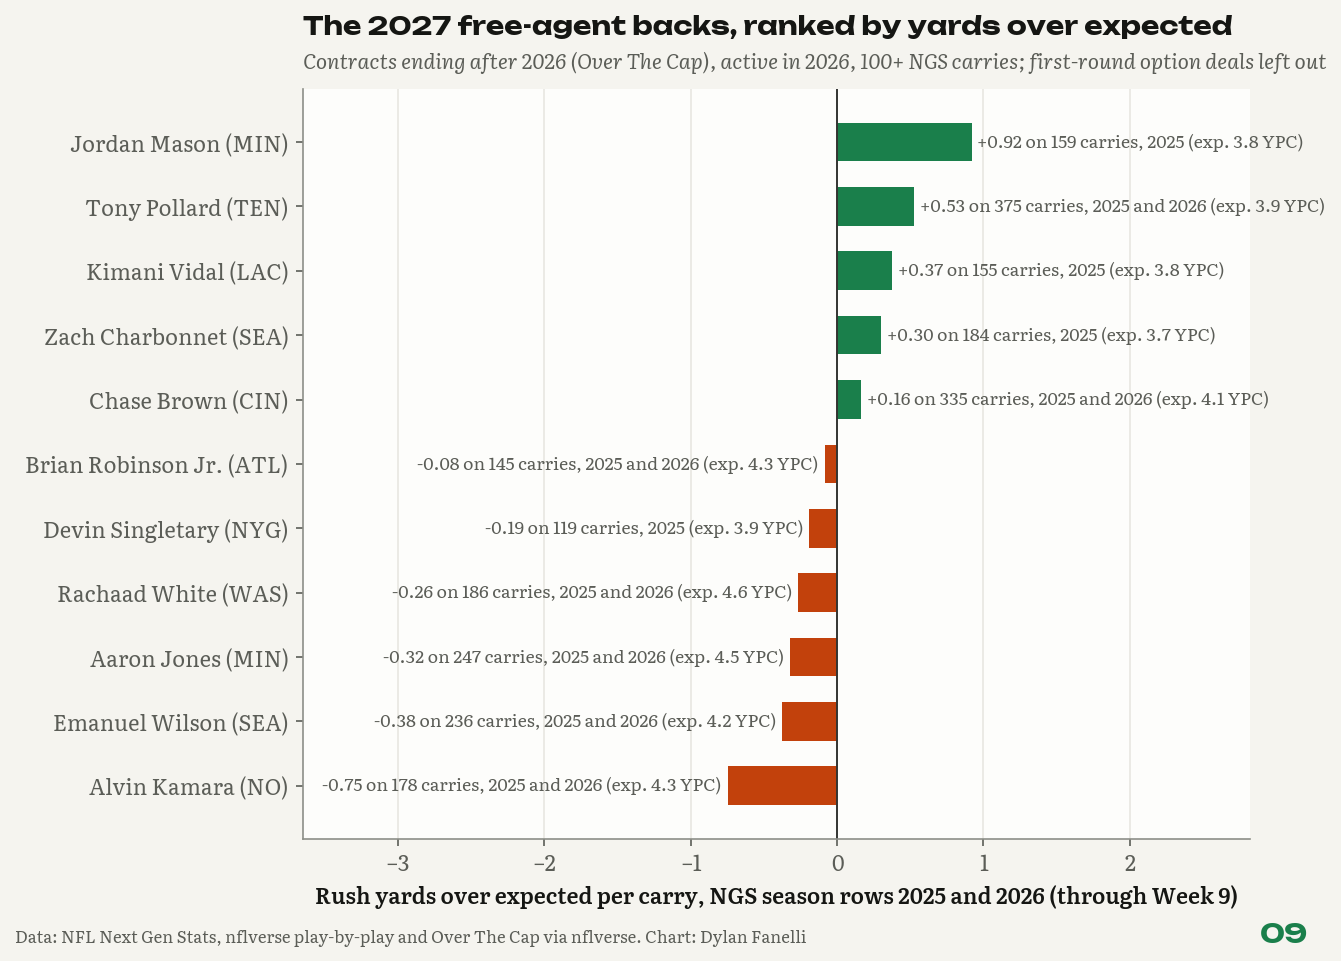
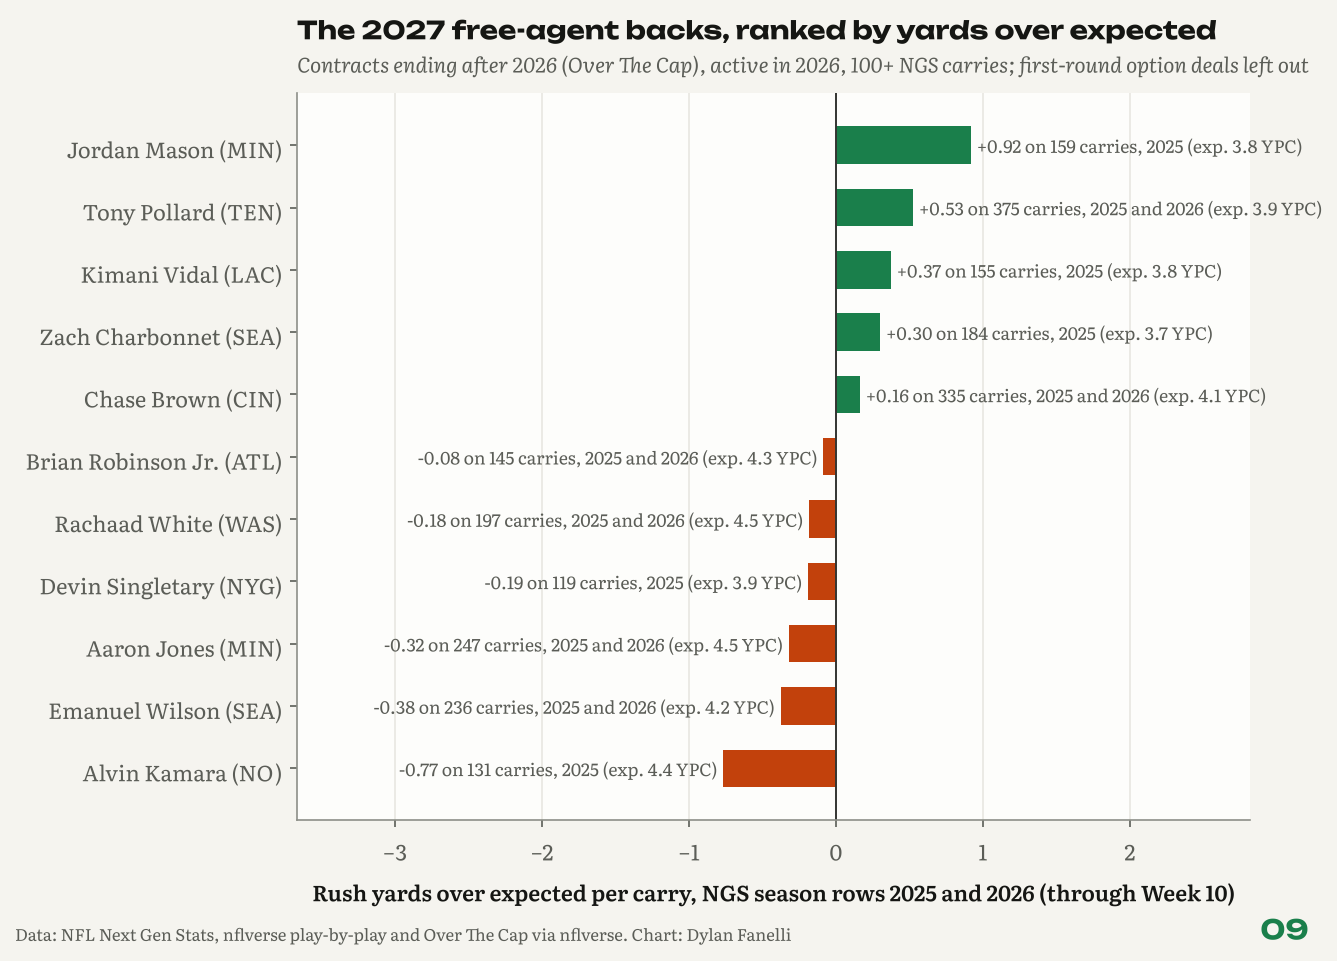
Study 09: inconclusive on 160 contracts, with the smallest detectable gap

diff --git a/reports/09-run-game-value/README.md b/reports/09-run-game-value/README.md
@@ -1,15 +1,15 @@
 <sub>[← Portfolio](../../README.md) &nbsp;|&nbsp; [← 08 The YAC Tax](../08-yac-tax/)</sub>
 
 # 09 Run Game Value
-### Teams pay a little more for the back's part, and neither part looks mispriced
+### No mispricing found between the back's part and the blocked part, on a sample too small to rule one out
 
 ![status: published](https://img.shields.io/badge/status-published-0b6e4f) ![seasons: 2018-2026](https://img.shields.io/badge/seasons-2018--2026-1d2433) ![method: Next Gen Stats](https://img.shields.io/badge/method-Next%20Gen%20Stats-c2410c) ![method: clustered OLS](https://img.shields.io/badge/method-clustered%20OLS-c2410c) ![method: bootstrap](https://img.shields.io/badge/method-bootstrap-c2410c) ![method: contract valuation](https://img.shields.io/badge/method-contract%20valuation-c2410c) ![method: null result](https://img.shields.io/badge/method-null%20result-c2410c)
 
 **TL;DR**
 
 - The blocking part of yards per carry repeats more than the back's part (expected YPC r = 0.46 vs RYOE per carry r = 0.20; 0.41 vs 0.33 for 150+ carry backs), and no rushing stat predicts next season's rushing EPA well.
-- Hypothesis failed: teams don't pay blocked yards like the back's own. Holding carries fixed, +1 yard over expected per carry adds \$3.06M a year vs \$2.21M for +1 expected yard per carry (160 contracts); per yard the gap is 2.54x but fades to 1.23x with workload controlled.
-- Per carry, both parts predict next season about equally (+1 yard per carry of each adds 0.29 vs 0.24 to next season's yards per carry), so the market looks roughly right; includes the 2027 free-agent backs, every name news-checked.
+- Inconclusive on 160 contracts: I expected teams to pay blocked yards like the back's own, and the data neither shows that nor rules it out. Holding carries fixed, +1 yard over expected per carry adds \$3.06M a year vs \$2.21M for +1 expected yard per carry (160 contracts); per yard the gap is 2.54x but fades to 1.23x with workload controlled.
+- Per carry, both parts predict next season about equally (+1 yard per carry of each adds 0.29 vs 0.24 to next season's yards per carry), so I found no mispricing, though a per-carry price gap under about \$2.9M would be too small for this sample to detect; includes the 2027 free-agent backs, every name news-checked.
 
 <p align="center"><img src="rb_price.png" width="720" alt="What contracts pay for each part of yards per carry, and what each part predicts next season."></p>
 <p align="center"><sub>What contracts pay for each part of yards per carry, and what each part predicts next season.</sub></p>
@@ -42,7 +42,7 @@ Brett Kollmann's line is that the offensive line sets a back's floor and the bac
 
 ## Data
 
-NFL Next Gen Stats rushing (2018-2025, qualified rushers only: 405 back-seasons, 146 backs), nflverse play-by-play 2018-2026 (through Week 9 of 2026), and 160 veteran RB contracts from Over The Cap (99 backs, signed 2019-2026), all via [nflverse](https://github.com/nflverse/nflverse-data). Dollars in 2026 cap terms (\$301.2M).
+NFL Next Gen Stats rushing (2018-2025, qualified rushers only: 405 back-seasons, 146 backs), nflverse play-by-play 2018-2026 (through Week 10 of 2026), and 160 veteran RB contracts from Over The Cap (99 backs, signed 2019-2026), all via [nflverse](https://github.com/nflverse/nflverse-data). Dollars in 2026 cap terms (\$301.2M).
 
 ## Results
 
@@ -77,7 +77,7 @@ Next season's yards per carry (backs with 50+ carries, weighted by carries, 278 
 
 ### 6. The 2027 free-agent backs.
 
-Contracts ending after 2026 (Over The Cap, extensions counted), active in 2026, first-round option deals left out, each name checked against news on November 12, 2026. 11 have 100+ carries in NGS season rows for 2025 and 2026; ranked by RYOE per carry, above expectation: Jordan Mason (MIN, +0.92 on 159 carries, 2025); Tony Pollard (TEN, +0.53 on 375 carries, 2025 and 2026); Kimani Vidal (LAC, +0.37 on 155 carries, 2025); Zach Charbonnet (SEA, +0.30 on 184 carries, 2025); Chase Brown (CIN, +0.16 on 335 carries, 2025 and 2026). Below: Brian Robinson Jr. (ATL, -0.08 on 145 carries, 2025 and 2026); Devin Singletary (NYG, -0.19 on 119 carries, 2025); Rachaad White (WAS, -0.26 on 186 carries, 2025 and 2026); Aaron Jones (MIN, -0.32 on 247 carries, 2025 and 2026); Emanuel Wilson (SEA, -0.38 on 236 carries, 2025 and 2026); Alvin Kamara (NO, -0.75 on 178 carries, 2025 and 2026). Value flags (RYOE over +0.3 a carry, at or below the list's median pay of \$2.00M): Kimani Vidal, Zach Charbonnet. Kimani Vidal is a restricted free agent; Zach Charbonnet tore his ACL in the January 2026 playoffs; Brian Robinson Jr. went on injured reserve on November 7. Given finding 1, one or two seasons of RYOE per carry is a weak signal; the CSV also gives each back's RYOE shrunk toward zero, and the news note behind every name. Removed after the news check: Christian McCaffrey (not a 2027 free agent: his 2024 two-year extension runs through 2027; Over The Cap's end year misses the fifth-year option year on his rookie deal). 4 more free-agent backs have 100+ carries in play-by-play but fewer than 100 in NGS season rows, so no RYOE: Samaje Perine (CIN, 130 carries: final year of a two-year Cincinnati deal, 2025-26); Zonovan Knight (ARI, 110 carries: one-year deal with Arizona for 2026); Kendre Miller (NO, 104 carries: released by New Orleans on November 7, 2026, a year after an October 2025 ACL tear; a free agent now unless claimed); Sean Tucker (TB, 101 carries: signed a one-year deal with Tampa Bay in August 2026).
+Contracts ending after 2026 (Over The Cap, extensions counted), active in 2026, first-round option deals left out, each name checked against news on November 12, 2026. 11 have 100+ carries in NGS season rows for 2025 and 2026; ranked by RYOE per carry, above expectation: Jordan Mason (MIN, +0.92 on 159 carries, 2025); Tony Pollard (TEN, +0.53 on 375 carries, 2025 and 2026); Kimani Vidal (LAC, +0.37 on 155 carries, 2025); Zach Charbonnet (SEA, +0.30 on 184 carries, 2025); Chase Brown (CIN, +0.16 on 335 carries, 2025 and 2026). Below: Brian Robinson Jr. (ATL, -0.08 on 145 carries, 2025 and 2026); Rachaad White (WAS, -0.18 on 197 carries, 2025 and 2026); Devin Singletary (NYG, -0.19 on 119 carries, 2025); Aaron Jones (MIN, -0.32 on 247 carries, 2025 and 2026); Emanuel Wilson (SEA, -0.38 on 236 carries, 2025 and 2026); Alvin Kamara (NO, -0.77 on 131 carries, 2025). Value flags (RYOE over +0.3 a carry, at or below the list's median pay of \$2.00M): Kimani Vidal, Zach Charbonnet. Kimani Vidal is a restricted free agent; Zach Charbonnet tore his ACL in the January 2026 playoffs; Brian Robinson Jr. went on injured reserve on November 7. Given finding 1, one or two seasons of RYOE per carry is a weak signal; the CSV also gives each back's RYOE shrunk toward zero, and the news note behind every name. Removed after the news check: Christian McCaffrey (not a 2027 free agent: his 2024 two-year extension runs through 2027; Over The Cap's end year misses the fifth-year option year on his rookie deal). 4 more free-agent backs have 100+ carries in play-by-play but fewer than 100 in NGS season rows, so no RYOE: Samaje Perine (CIN, 130 carries: final year of a two-year Cincinnati deal, 2025-26); Zonovan Knight (ARI, 110 carries: one-year deal with Arizona for 2026); Kendre Miller (NO, 104 carries: released by New Orleans on November 7, 2026, a year after an October 2025 ACL tear; a free agent now unless claimed); Sean Tucker (TB, 101 carries: signed a one-year deal with Tampa Bay in August 2026).
 
 <p align="center"><img src="free_agent_rbs.png" width="720" alt="The 2027 free-agent backs by rush yards over expected per carry."></p>
 <p align="center"><sub>The 2027 free-agent backs by rush yards over expected per carry.</sub></p>
@@ -106,6 +106,7 @@ Contracts ending after 2026 (Over The Cap, extensions counted), active in 2026, 
 
 ## Limitations
 
+- The pricing test is inconclusive, not a clean bill for the market. With 160 contracts, the per-carry price gap between the two parts is \$0.85M (95% interval \$-1.20M to \$2.90M), and the smallest gap this sample would find 80% of the time is about \$2.93M per yard per carry. On the prediction side the gap is 0.05 yards per carry (-0.30 to 0.39), and the smallest detectable gap is about 0.49. A real mispricing smaller than those would not show up here.
 - Only qualified rushers have NGS season rows (about 50 a season), so backups and part-time backs are missing and the samples are small (232 back-to-back pairs, 50 of them team changes, 160 contracts).
 - Expected yards is the NFL's model. It sees the blockers and defenders at the handoff, not how well the line sustains its blocks, so some line play sits inside RYOE; and it reflects the back's role and usage, so some of the back sits inside expected yards.
 - A contract buys several years, pass protection and receiving; receiving yards are controlled for, pass protection is not measured.
